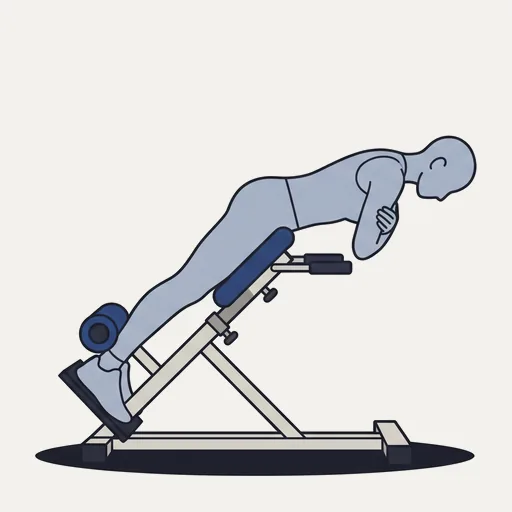
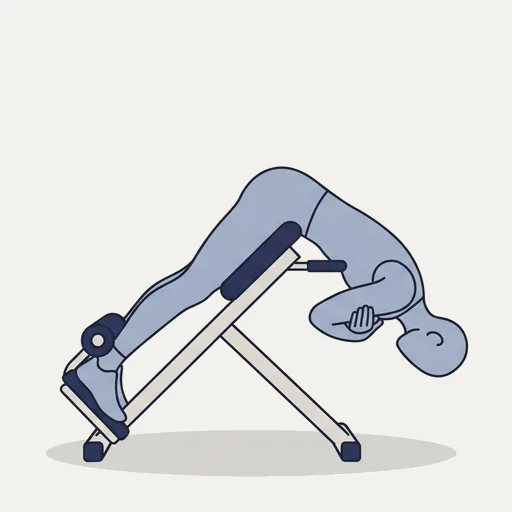
Exercices prouvés par les études, nouvelles animations et contrôle complet
- Pour chaque exercice appuyé par une étude, une phrase simple sur ce qui a été mesuré et la source (lib/v2/programmes/preuves.ts), affichée sur les fiches des zones et dans la technique des programmes
- Zones refaites avec les exercices les mieux prouvés : développé incliné, élévations latérales, curl pupitre, extension triceps au-dessus de la tête, leg curl assis, extension de hanche 45°, hip thrust et squat complet, leg extension, mollets debout
- Nouvelle animation du curl pupitre, animations refaites après contrôle des 74 (hyperextensions, tractions prise neutre, presse pieds hauts), dips sur banc et Pallof press retirés faute d'image juste

Claude-Session: https://claude.ai/code/session_01WKNup996cHiHJhfo2ungBz

Changed region(s): [[0.0625, 0.25, 0.9375, 0.9375]]

diff --git a/lib/v2/programmes/preuves.ts b/lib/v2/programmes/preuves.ts
@@ -1,0 +1,94 @@
+/**
+ * Ce que disent les études (24 octobre 2026). Houari : « ajoute les meilleurs exercices, avec les sources,
+ * les études ». Pour un exercice, une phrase simple sur ce qu'une étude a mesuré, et la référence.
+ * Uniquement des études retrouvées et vérifiées (auteurs, année, revue) : études de suivi sur plusieurs
+ * semaines avec mesure du muscle (échographie ou IRM), pas de simples mesures d'activité électrique.
+ * Pas de preuve = pas de phrase : on ne prétend rien pour les exercices sans étude solide.
+ * Données pures, testées dans __tests__/unit/preuves.test.ts.
+ */
+
+export type Preuve = { texte: string; source: string };
+
+const LATERALES: Preuve = {
+  texte: 'En 8 semaines, le muscle du côté de l’épaule a épaissi de 3 à 5 %, avec des haltères comme avec une poulie.',
+  source: 'Larsen, Wolf, Schoenfeld et coll., Frontiers in Physiology, 2025',
+};
+const INCLINE: Preuve = {
+  texte: 'Le développé incliné a davantage développé le haut des pectoraux que le développé à plat, en 8 semaines.',
+  source: 'Chaves et coll., International Journal of Exercise Science, 2020',
+};
+const COUCHE_POMPES: Preuve = {
+  texte: 'Avec une charge légère, le développé couché et les pompes ont fait grossir les pectoraux autant l’un que l’autre en 8 semaines.',
+  source: 'Kikuchi et Nakazato, Journal of Exercise Science & Fitness, 2017',
+};
+const TRICEPS_TETE: Preuve = {
+  texte: 'Bras au-dessus de la tête, les triceps ont grossi de 20 % en 12 semaines, contre 14 % bras le long du corps.',
+  source: 'Maeo et coll., European Journal of Sport Science, 2023',
+};
+const ISCHIOS_ASSIS: Preuve = {
+  texte: 'Assis, l’arrière des cuisses a grossi de 14 % en 12 semaines, contre 9 % allongé sur le ventre.',
+  source: 'Maeo et coll., Medicine & Science in Sports & Exercise, 2021',
+};
+const HIP_THRUST: Preuve = {
+  texte: 'Le hip thrust a développé les fessiers autant que le squat en 9 semaines, mesuré à l’IRM.',
+  source: 'Plotkin, Rodas, Vigotsky et coll., Frontiers in Physiology, 2023',
+};
+const SQUAT_COMPLET: Preuve = {
+  texte: 'Descendre bas compte : le squat complet a fait grossir les fessiers de 6,7 %, contre 2,2 % pour le demi-squat, en 10 semaines.',
+  source: 'Kubo, Ikebukuro et Yata, European Journal of Applied Physiology, 2019',
+};
+const MOLLETS_DEBOUT: Preuve = {
+  texte: 'Jambes tendues, les mollets ont grossi de 9 à 12 % en 12 semaines. Assis, presque rien pour cette partie du mollet.',
+  source: 'Kinoshita, Maeo et coll., Frontiers in Physiology, 2023',
+};
+
+export const PREUVES: Record<string, Preuve> = {
+  'Élévations Latérales (Haltères)': LATERALES,
+  'Élévations Latérales (Poulie)': LATERALES,
+  'Développé Incliné (Haltères)': INCLINE,
+  'Développé Incliné (Barre)': INCLINE,
+  'Développé Couché (Barre)': COUCHE_POMPES,
+  'Pompes (Poids du corps)': COUCHE_POMPES,
+  'Curl Larry Scott (Pupitre)': {
+    texte: 'Insister en bas du mouvement, bras presque tendus, a fait grossir les biceps de 9 % en 5 semaines, contre 3 % en ne travaillant que le haut.',
+    source: 'Sato, Yoshida, Kiyono et coll., Frontiers in Physiology, 2021',
+  },
+  'Overhead Extension Poulie': TRICEPS_TETE,
+  'Extension Haltère Nuque (2 mains)': TRICEPS_TETE,
+  'Extension Haltère Nuque': TRICEPS_TETE,
+  'Overhead Triceps Extension': TRICEPS_TETE,
+  'Cable Overhead Extension': TRICEPS_TETE,
+  'Extension Triceps Poulie (Corde)': {
+    texte: 'Efficace (+14 % en 12 semaines), mais moins que la version bras au-dessus de la tête : idéal en deuxième exercice.',
+    source: 'Maeo et coll., European Journal of Sport Science, 2023',
+  },
+  'Leg Curl Assis': ISCHIOS_ASSIS,
+  'Seated Leg Curl': ISCHIOS_ASSIS,
+  Hyperextensions: {
+    texte: 'L’extension de hanche à 45° a fait grossir le muscle de l’arrière de la cuisse plus que le Nordic curl, en 10 semaines.',
+    source: 'Bourne, Duhig, Timmins et coll., British Journal of Sports Medicine, 2017',
+  },
+  'Nordic Curl': {
+    texte: 'Le Nordic curl a allongé les fibres de l’arrière de la cuisse en 10 semaines, ce qui aide à les protéger des déchirures.',
+    source: 'Bourne, Duhig, Timmins et coll., British Journal of Sports Medicine, 2017',
+  },
+  'Hip Thrust Barre': HIP_THRUST,
+  'Hip Thrust Machine': HIP_THRUST,
+  'Squat Barre Libre': SQUAT_COMPLET,
+  'Goblet Squat': SQUAT_COMPLET,
+  'Leg Extension': {
+    texte: 'Le leg extension a fait grossir le muscle du milieu de la cuisse (droit fémoral), que le squat ne développait pas, en 5 semaines.',
+    source: 'Zabaleta-Korta et coll., Journal of Sports Sciences, 2021',
+  },
+  'Mollets Debout (Machine)': MOLLETS_DEBOUT,
+  'Mollets Assis (Machine)': {
+    texte: 'Assis, on travaille surtout le muscle profond du mollet : à faire en plus du mollet debout, jamais seul.',
+    source: 'Kinoshita, Maeo et coll., Frontiers in Physiology, 2023',
+  },
+  'Tirage Poitrine (Lat Pulldown)': {
+    texte: 'Chez des débutants, le tirage vertical seul a fait grossir les biceps autant que des curls, en 10 semaines.',
+    source: 'Gentil, Soares et Bottaro, Asian Journal of Sports Medicine, 2015',
+  },
+};
+
+export const preuveDe = (nom: string | null | undefined): Preuve | null => (nom ? PREUVES[nom] ?? null : null);

diff --git a/lib/v2/programmes/demosArt.ts b/lib/v2/programmes/demosArt.ts
@@ -12,6 +12,7 @@ export const DEMOS: Record<string, [ImageSourcePropType, ImageSourcePropType]> =
   curl_barre_ez: [require('../../../assets/exercices/demos/curl_barre_ez_a.webp'), require('../../../assets/exercices/demos/curl_barre_ez_b.webp')],
   curl_halteres_alterne: [require('../../../assets/exercices/demos/curl_halteres_alterne_a.webp'), require('../../../assets/exercices/demos/curl_halteres_alterne_b.webp')],
   curl_incline_halteres: [require('../../../assets/exercices/demos/curl_incline_halteres_a.webp'), require('../../../assets/exercices/demos/curl_incline_halteres_b.webp')],
+  curl_larry_scott_pupitre: [require('../../../assets/exercices/demos/curl_larry_scott_pupitre_a.webp'), require('../../../assets/exercices/demos/curl_larry_scott_pupitre_b.webp')],
   curl_marteau_hammer: [require('../../../assets/exercices/demos/curl_marteau_hammer_a.webp'), require('../../../assets/exercices/demos/curl_marteau_hammer_b.webp')],
   dead_bug: [require('../../../assets/exercices/demos/dead_bug_a.webp'), require('../../../assets/exercices/demos/dead_bug_b.webp')],
   dead_hang: [require('../../../assets/exercices/demos/dead_hang_a.webp'), require('../../../assets/exercices/demos/dead_hang_b.webp')],
@@ -23,7 +24,6 @@ export const DEMOS: Record<string, [ImageSourcePropType, ImageSourcePropType]> =
   developpe_incline_halteres: [require('../../../assets/exercices/demos/developpe_incline_halteres_a.webp'), require('../../../assets/exercices/demos/developpe_incline_halteres_b.webp')],
   developpe_militaire_assis: [require('../../../assets/exercices/demos/developpe_militaire_assis_a.webp'), require('../../../assets/exercices/demos/developpe_militaire_assis_b.webp')],
   developpe_militaire_barre: [require('../../../assets/exercices/demos/developpe_militaire_barre_a.webp'), require('../../../assets/exercices/demos/developpe_militaire_barre_b.webp')],
-  dips_banc: [require('../../../assets/exercices/demos/dips_banc_a.webp'), require('../../../assets/exercices/demos/dips_banc_b.webp')],
   dips_focus_pectoraux: [require('../../../assets/exercices/demos/dips_focus_pectoraux_a.webp'), require('../../../assets/exercices/demos/dips_focus_pectoraux_b.webp')],
   ecartes_a_la_poulie_haute: [require('../../../assets/exercices/demos/ecartes_a_la_poulie_haute_a.webp'), require('../../../assets/exercices/demos/ecartes_a_la_poulie_haute_b.webp')],
   elevations_laterales_halteres: [require('../../../assets/exercices/demos/elevations_laterales_halteres_a.webp'), require('../../../assets/exercices/demos/elevations_laterales_halteres_b.webp')],
@@ -52,7 +52,6 @@ export const DEMOS: Record<string, [ImageSourcePropType, ImageSourcePropType]> =
   oiseau_halteres_rear_delts: [require('../../../assets/exercices/demos/oiseau_halteres_rear_delts_a.webp'), require('../../../assets/exercices/demos/oiseau_halteres_rear_delts_b.webp')],
   oiseau_machine_reverse_pec_deck: [require('../../../assets/exercices/demos/oiseau_machine_reverse_pec_deck_a.webp'), require('../../../assets/exercices/demos/oiseau_machine_reverse_pec_deck_b.webp')],
   overhead_extension_poulie: [require('../../../assets/exercices/demos/overhead_extension_poulie_a.webp'), require('../../../assets/exercices/demos/overhead_extension_poulie_b.webp')],
-  pallof_press: [require('../../../assets/exercices/demos/pallof_press_a.webp'), require('../../../assets/exercices/demos/pallof_press_b.webp')],
   pec_deck_butterfly: [require('../../../assets/exercices/demos/pec_deck_butterfly_a.webp'), require('../../../assets/exercices/demos/pec_deck_butterfly_b.webp')],
   pike_push_ups: [require('../../../assets/exercices/demos/pike_push_ups_a.webp'), require('../../../assets/exercices/demos/pike_push_ups_b.webp')],
   pompes_poids_du_corps: [require('../../../assets/exercices/demos/pompes_poids_du_corps_a.webp'), require('../../../assets/exercices/demos/pompes_poids_du_corps_b.webp')],

diff --git a/lib/v2/programmes/zones.ts b/lib/v2/programmes/zones.ts
@@ -54,7 +54,7 @@ export const ZONES: Zone[] = [
     muscles: ['fessiers'],
     exos: [
       e('Hip Thrust Machine', 'FESSIERS', 10, 15, 'Pousse avec les talons et serre les fesses une seconde en haut.'),
-      e('Abducteurs Machine', 'FESSIERS', 12, 20, 'Écarte les jambes contre la machine, reviens lentement : le haut des fesses travaille.'),
+      e('Goblet Squat', 'JAMBES', 8, 12, 'Un haltère tenu contre la poitrine, descends le plus bas possible en gardant le dos droit : plus tu descends, plus les fessiers travaillent.'),
     ],
   },
   {
@@ -64,7 +64,7 @@ export const ZONES: Zone[] = [
     muscles: ['jambes'],
     exos: [
       e('Leg Curl Assis', 'ISCHIOS', 10, 15, 'Plie les jambes contre le boudin, reviens lentement sans laisser tomber la charge.'),
-      e('Romanian Deadlift (Haltères)', 'ISCHIOS', 10, 12, 'Dos droit, pousse les hanches en arrière jusqu’à sentir l’arrière des cuisses tirer.'),
+      e('Hyperextensions', 'DOS', 10, 15, 'Hanches sur le coussin, descends le buste, puis remonte jusqu’à faire une ligne droite avec les jambes, sans cambrer.'),
     ],
   },
   {
@@ -83,7 +83,7 @@ export const ZONES: Zone[] = [
     role: 'La poitrine : pousser, se relever du sol, un buste plus ferme.',
     muscles: ['pectoraux'],
     exos: [
-      e('Chest Press (Machine)', 'PECTORAUX', 10, 12, 'Pousse les poignées devant toi, reviens lentement jusqu’à sentir la poitrine s’étirer.'),
+      e('Développé Incliné (Haltères)', 'PECTORAUX', 8, 12, 'Banc incliné à environ 30 degrés, descends les haltères sur le haut de la poitrine puis pousse vers le haut.'),
       e('Pompes (Poids du corps)', 'PECTORAUX', 6, 15, 'Trop dur ? Fais les genoux au sol. Le corps reste droit comme une planche.', { poidsDuCorps: true }),
     ],
   },
@@ -93,8 +93,8 @@ export const ZONES: Zone[] = [
     role: 'Les épaules : des bras qui se lèvent sans gêne et une carrure plus marquée.',
     muscles: ['epaules'],
     exos: [
-      e('Développé Haltères Assis', 'ÉPAULES', 10, 12, 'Assis le dos calé, pousse les haltères au dessus de la tête sans cambrer.'),
       e('Élévations Latérales (Haltères)', 'ÉPAULES', 12, 15, 'Monte les bras sur les côtés jusqu’aux épaules, haltères légers, sans élan.'),
+      e('Développé Haltères Assis', 'ÉPAULES', 10, 12, 'Assis le dos calé, pousse les haltères au dessus de la tête sans cambrer.'),
     ],
   },
   {
@@ -103,8 +103,8 @@ export const ZONES: Zone[] = [
     role: 'Biceps devant, triceps derrière : des bras plus fermes et plus forts.',
     muscles: ['biceps', 'triceps'],
     exos: [
-      e('Curl Haltères Alterné', 'BICEPS', 10, 12, 'Coudes collés au corps, monte l’haltère sans balancer le buste.'),
-      e('Extension Triceps Poulie (Corde)', 'TRICEPS', 10, 15, 'Coudes fixes contre le corps, tends les bras vers le bas : l’arrière du bras travaille.'),
+      e('Curl Larry Scott (Pupitre)', 'BICEPS', 10, 12, 'Bras posés sur le pupitre, descends jusqu’aux bras presque tendus et contrôle bien le bas du mouvement.'),
+      e('Overhead Extension Poulie', 'TRICEPS', 10, 15, 'Dos à la poulie, coudes pointés vers le haut, tends les bras au-dessus de la tête puis redescends en étirant bien l’arrière du bras.'),
     ],
   },
   {

diff --git a/components/yoroi/v2/programmes/CarteExoZone.tsx b/components/yoroi/v2/programmes/CarteExoZone.tsx
@@ -15,6 +15,7 @@ import { FicheTechnique } from '@/components/yoroi/v2/programmes/FicheTechnique'
 import { P } from '@/components/yoroi/livePalette';
 import { demoDe } from '@/lib/v2/programmes/demos';
 import { ficheDe } from '@/lib/v2/programmes/fiches';
+import { preuveDe } from '@/lib/v2/programmes/preuves';
 import { libelleRepos } from '@/lib/v2/programmes/catalogue';
 import { nomFr } from '@/lib/v2/seance/rechercheExo';
 import type { ExoProgramme } from '@/lib/v2/programmes/types';
@@ -39,6 +40,7 @@ export function CarteExoZone({ exo, numero, total, zone, marge = 44 }: { exo: Ex
   const largeur = Math.max(200, width - marge);
   const animee = !!demoDe(exo.nom);
   const fiche = !!ficheDe(exo.nom);
+  const preuve = preuveDe(exo.nom);
   const reps = `${exo.repsMin} ${traduire('à')} ${exo.repsMax}`;
 
   return (
@@ -80,6 +82,17 @@ export function CarteExoZone({ exo, numero, total, zone, marge = 44 }: { exo: Ex
           </View>
         ) : null}
 
+        {preuve ? (
+          <View style={{ gap: 4, padding: 12, borderRadius: 16, borderWidth: 1, borderColor: c.border }}>
+            <View style={{ flexDirection: 'row', alignItems: 'center', gap: 6 }}>
+              <Icon name="medal" size={15} color={c.accent} />
+              <Ink size={12} weight="black" color={c.accent}>{traduire('PROUVÉ PAR UNE ÉTUDE')}</Ink>
+            </View>
+            <Ink size={14} color={c.ink}>{traduire(preuve.texte)}</Ink>
+            <Ink size={12} color={c.textMuted}>{traduire('Source : {0}', preuve.source)}</Ink>
+          </View>
+        ) : null}
+
         {fiche ? (
           <View>
             <Pressable
@@ -94,7 +107,7 @@ export function CarteExoZone({ exo, numero, total, zone, marge = 44 }: { exo: Ex
                 <Icon name="chevron" size={15} color={c.textSecondary} />
               </View>
             </Pressable>
-            {ouvert ? <FicheTechnique nom={exo.nom} /> : null}
+            {ouvert ? <FicheTechnique nom={exo.nom} avecPreuve={false} /> : null}
           </View>
         ) : null}
       </View>

diff --git a/components/yoroi/v2/programmes/FicheTechnique.tsx b/components/yoroi/v2/programmes/FicheTechnique.tsx
@@ -8,6 +8,7 @@ import { View } from 'react-native';
 import { useYoroiTheme } from '@/components/yoroi';
 import { Ink } from '@/components/yoroi/v2/Ink';
 import { ficheDe } from '@/lib/v2/programmes/fiches';
+import { preuveDe } from '@/lib/v2/programmes/preuves';
 import { traduire } from '@/lib/i18n/tr';
 
 function Liste({ titre, items, couleur, puce }: { titre: string; items: string[]; couleur: string; puce: string }) {
@@ -26,16 +27,25 @@ function Liste({ titre, items, couleur, puce }: { titre: string; items: string[]
   );
 }
 
-export function FicheTechnique({ nom }: { nom: string }) {
+/** avecPreuve : ce que dit une étude sur l'exercice (lib/v2/programmes/preuves.ts), sauf quand l'écran l'affiche déjà */
+export function FicheTechnique({ nom, avecPreuve = true }: { nom: string; avecPreuve?: boolean }) {
   const { theme } = useYoroiTheme();
   const c = theme.colors;
   const f = ficheDe(nom);
+  const p = avecPreuve ? preuveDe(nom) : null;
   if (!f) return null;
   return (
     <View style={{ gap: 10, paddingTop: 8 }}>
       <Liste titre="Consignes" items={f.consignes} couleur={c.accent} puce="✓" />
       <Liste titre="Erreurs fréquentes" items={f.erreurs} couleur={c.danger} puce="✕" />
       {f.securite ? <Liste titre="Sécurité" items={[f.securite]} couleur={c.ink} puce="!" /> : null}
+      {p ? (
+        <View style={{ gap: 2 }}>
+          <Ink size={12} weight="black" color={c.accent}>{traduire('Prouvé par une étude')}</Ink>
+          <Ink size={13} color={c.textSecondary}>{traduire(p.texte)}</Ink>
+          <Ink size={11} color={c.textMuted}>{traduire('Source : {0}', p.source)}</Ink>
+        </View>
+      ) : null}
       <Ink size={11} color={c.textMuted}>{traduire('Repères de technique, pas un avis médical. En cas de douleur, arrête et demande à un professionnel.')}</Ink>
     </View>
   );

diff --git a/app/programmes/zones.tsx b/app/programmes/zones.tsx
@@ -100,7 +100,7 @@ export default function ZonesScreen() {
   const exos = useMemo(() => seanceZones(choisies), [choisies]);
   const minutes = Math.max(10, Math.round((dureeEstimee(exos) + 5) / 5) * 5);
   const titre = titreZones(choisies, traduire);
-  const zoneDe = (muscle: string) => ZONES.find((z) => z.exos.some((x) => x.muscle === muscle && exos.some((y) => y.nom === x.nom)));
+  const zoneDe = (nom: string) => ZONES.find((z) => choisies.includes(z.id) && z.exos.some((x) => x.nom === nom));
 
   const commencer = () => {
     if (!exos.length) return;
@@ -164,7 +164,7 @@ export default function ZonesScreen() {
               <Ink size={13} color="rgba(255,255,255,0.8)">{traduire('Fais-les dans l’ordre : les gros muscles d’abord, les abdos à la fin.')}</Ink>
             </View>
             {exos.map((x, k) => (
-              <CarteExoZone key={x.nom} exo={x} numero={k + 1} total={exos.length} zone={traduire(zoneDe(x.muscle)?.nom ?? '') || undefined} />
+              <CarteExoZone key={x.nom} exo={x} numero={k + 1} total={exos.length} zone={traduire(zoneDe(x.nom)?.nom ?? '') || undefined} />
             ))}
 
             <Glass style={{ gap: 12 }}>

diff --git a/lib/v2/programmes/materiel.ts b/lib/v2/programmes/materiel.ts
@@ -96,6 +96,7 @@ const FICHES: Record<string, Fiche> = {
   // BICEPS
   'Curl Barre EZ': { besoin: [['barre']], remplacants: ['Curl Haltères Alterné', 'Curl Poulie Basse', 'Tractions (Supination)', 'Inverted Row'] },
   'Curl Haltères Alterné': { besoin: [['halteres']], remplacants: ['Curl Barre EZ', 'Curl Poulie Basse', 'Tractions (Supination)', 'Inverted Row'] },
+  'Curl Larry Scott (Pupitre)': { besoin: [['halteres', 'banc'], ['barre', 'banc'], ['machines']], remplacants: ['Curl Haltères Alterné', 'Curl Barre EZ', 'Curl Poulie Basse', 'Tractions (Supination)'] },
   'Curl Incliné (Haltères)': { besoin: [['halteres', 'banc']], remplacants: ['Curl Haltères Alterné', 'Curl Poulie Basse', 'Curl Barre EZ', 'Tractions (Supination)', 'Inverted Row'] },
   'Curl Marteau (Hammer)': { besoin: [['halteres'], ['kettlebell']], remplacants: ['Curl Barre EZ', 'Curl Poulie Basse', 'Tractions Neutres', 'Inverted Row'] },
   'Curl Poulie Basse': { besoin: [['poulie'], ['elastiques']], remplacants: [] },

diff --git a/lib/v2/programmes/fiches.ts b/lib/v2/programmes/fiches.ts
@@ -494,6 +494,18 @@ export const FICHES_EXO: Record<string, FicheExo> = {
       'Lâcher la descente d’un coup.',
     ],
   },
+  'Curl Larry Scott (Pupitre)': {
+    consignes: [
+      'Assis, l’arrière des bras posé à plat sur le pupitre, paumes vers le haut.',
+      'Monte la charge en pliant les coudes, les bras restent collés au pupitre.',
+      'Redescends lentement jusqu’aux bras presque tendus : c’est la partie la plus utile.',
+    ],
+    erreurs: [
+      'Décoller les coudes du pupitre pour monter.',
+      'S’arrêter à mi-chemin en bas du mouvement.',
+    ],
+    securite: 'Ne laisse jamais la charge tomber bras tendus : le coude est en position fragile en bas.',
+  },
   'Curl Incliné (Haltères)': {
     consignes: [
       'Allongé sur un banc incliné, bras tendus vers le sol, paumes vers l’avant.',
